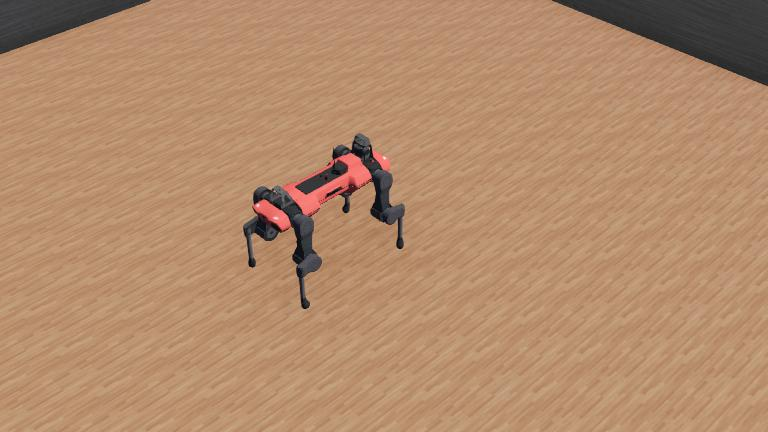
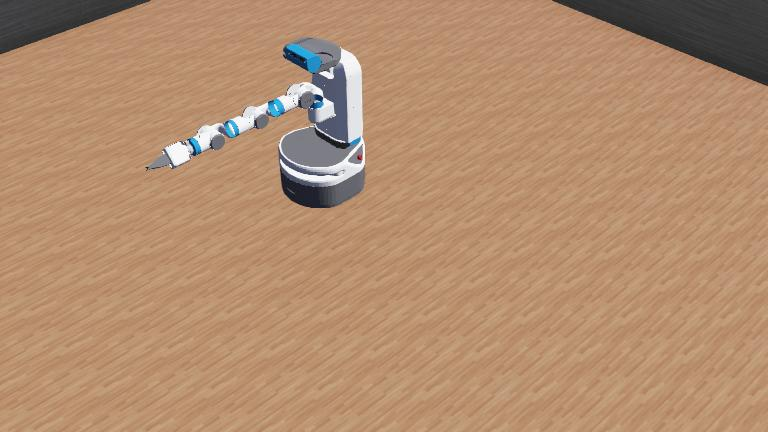
simplify proto to use simpler primitives

Changed region(s): [[0.1875, 0.0903, 0.5312, 0.7222]]

diff --git a/controllers/drive_robot/drive_robot.py b/controllers/drive_robot/drive_robot.py
@@ -22,7 +22,7 @@ for motor in wheel_motors.values():
     motor.setVelocity(0.0)
 
 # Movement parameters
-max_wheel_velocity = 5.0  # rad/s (adjust based on testing)
+max_wheel_velocity = 100.0  # rad/s (adjust based on testing)
 
 def process_keyboard():
     """Process keyboard input and return movement commands"""
